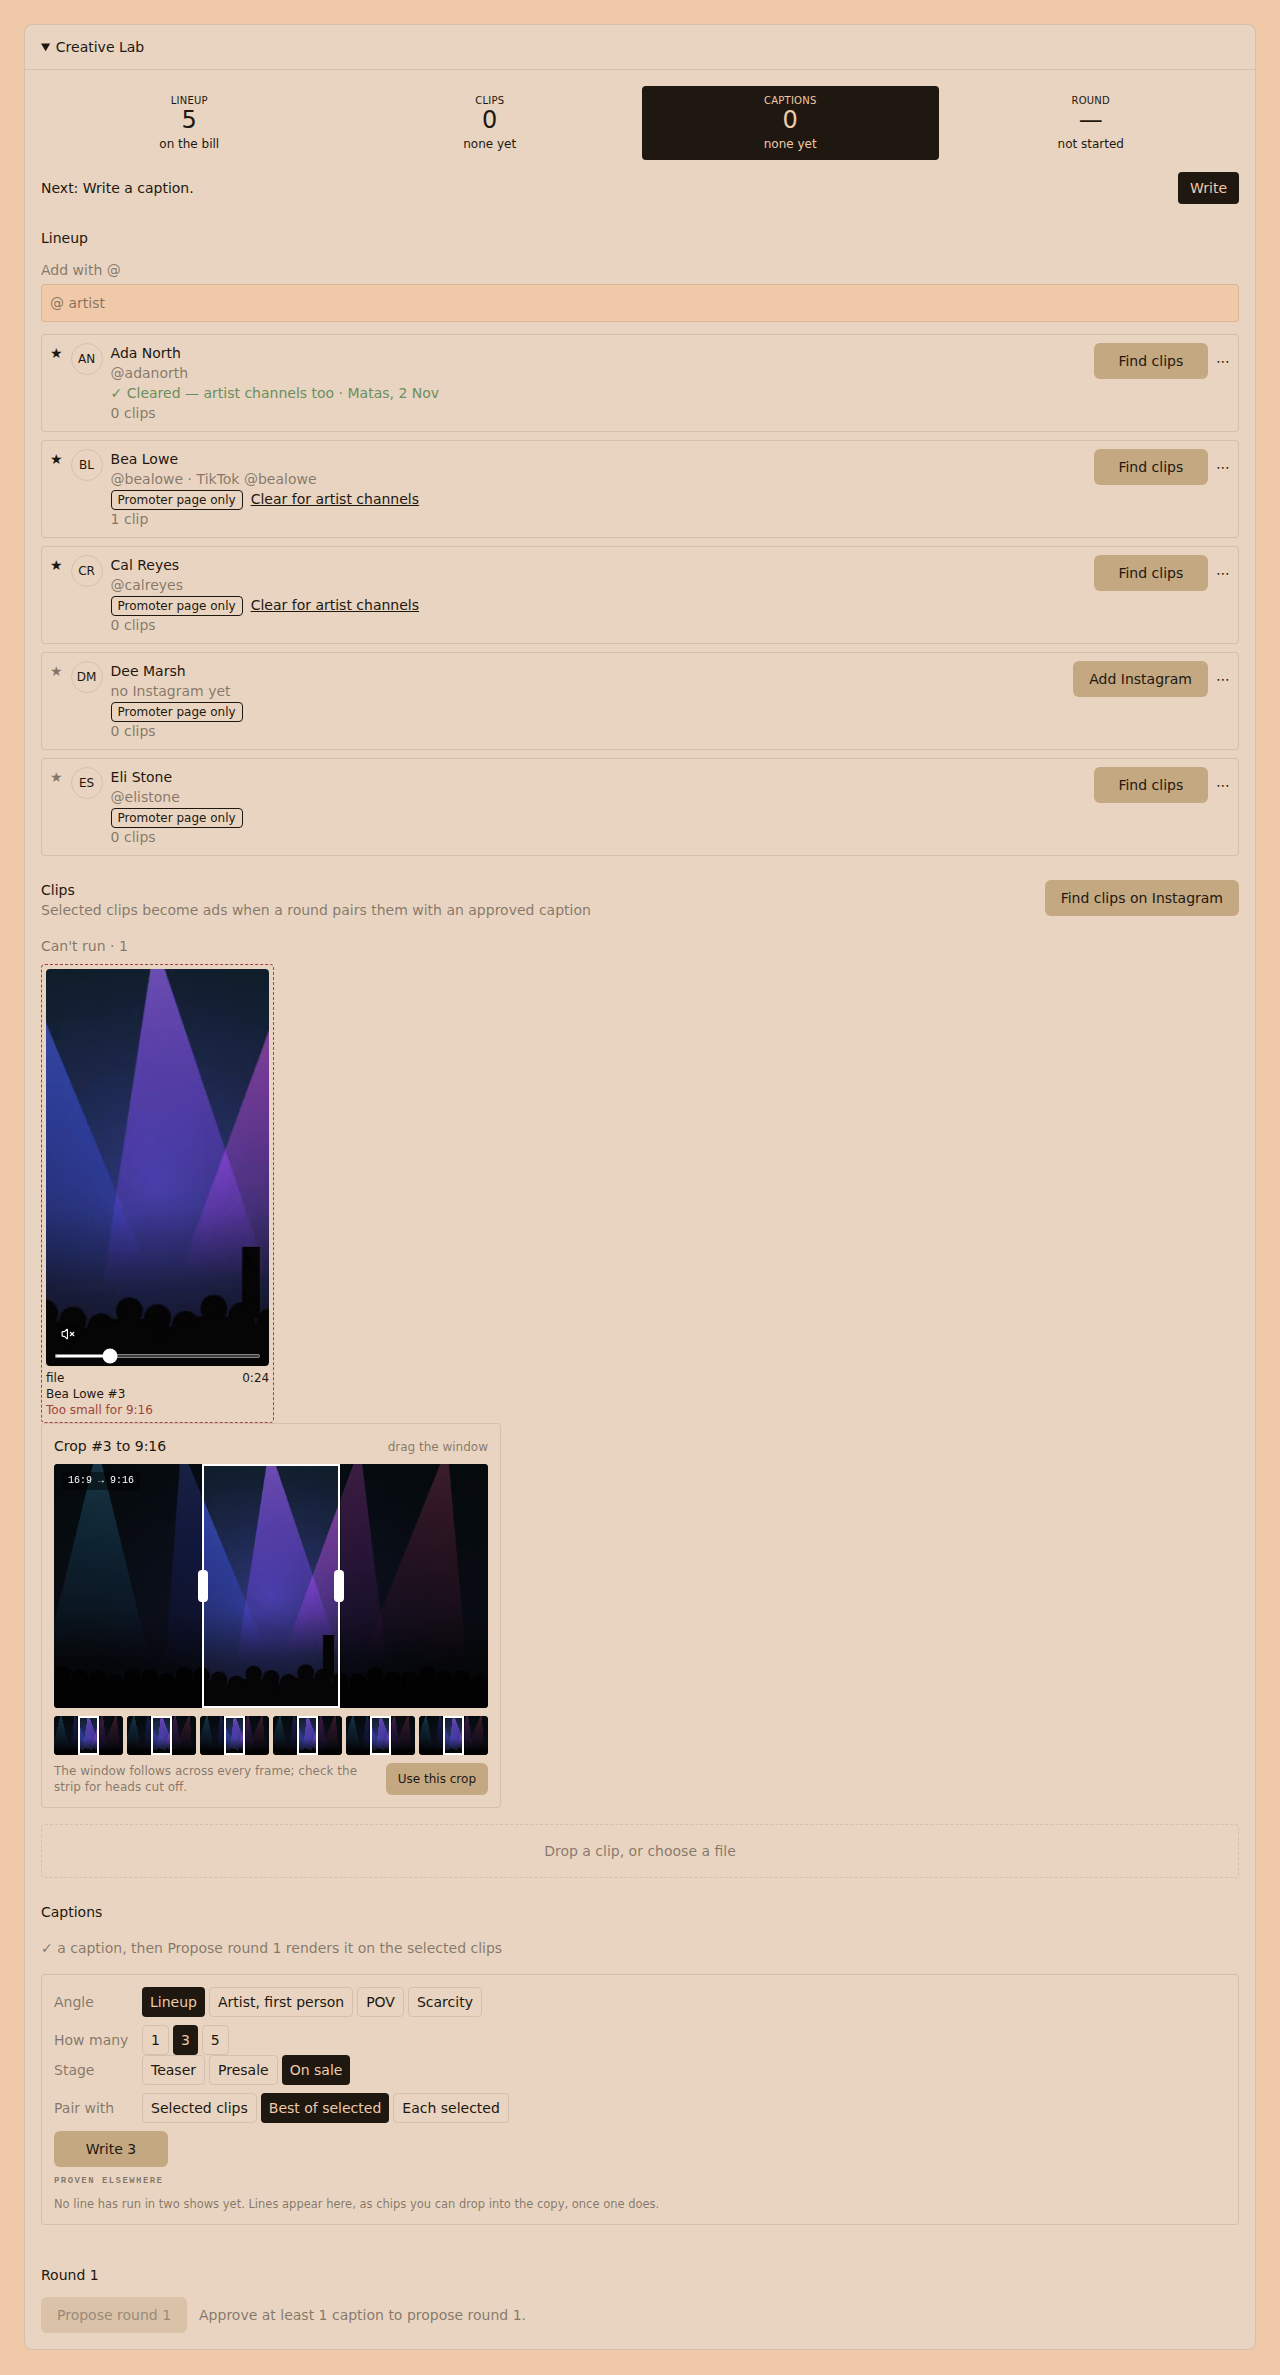
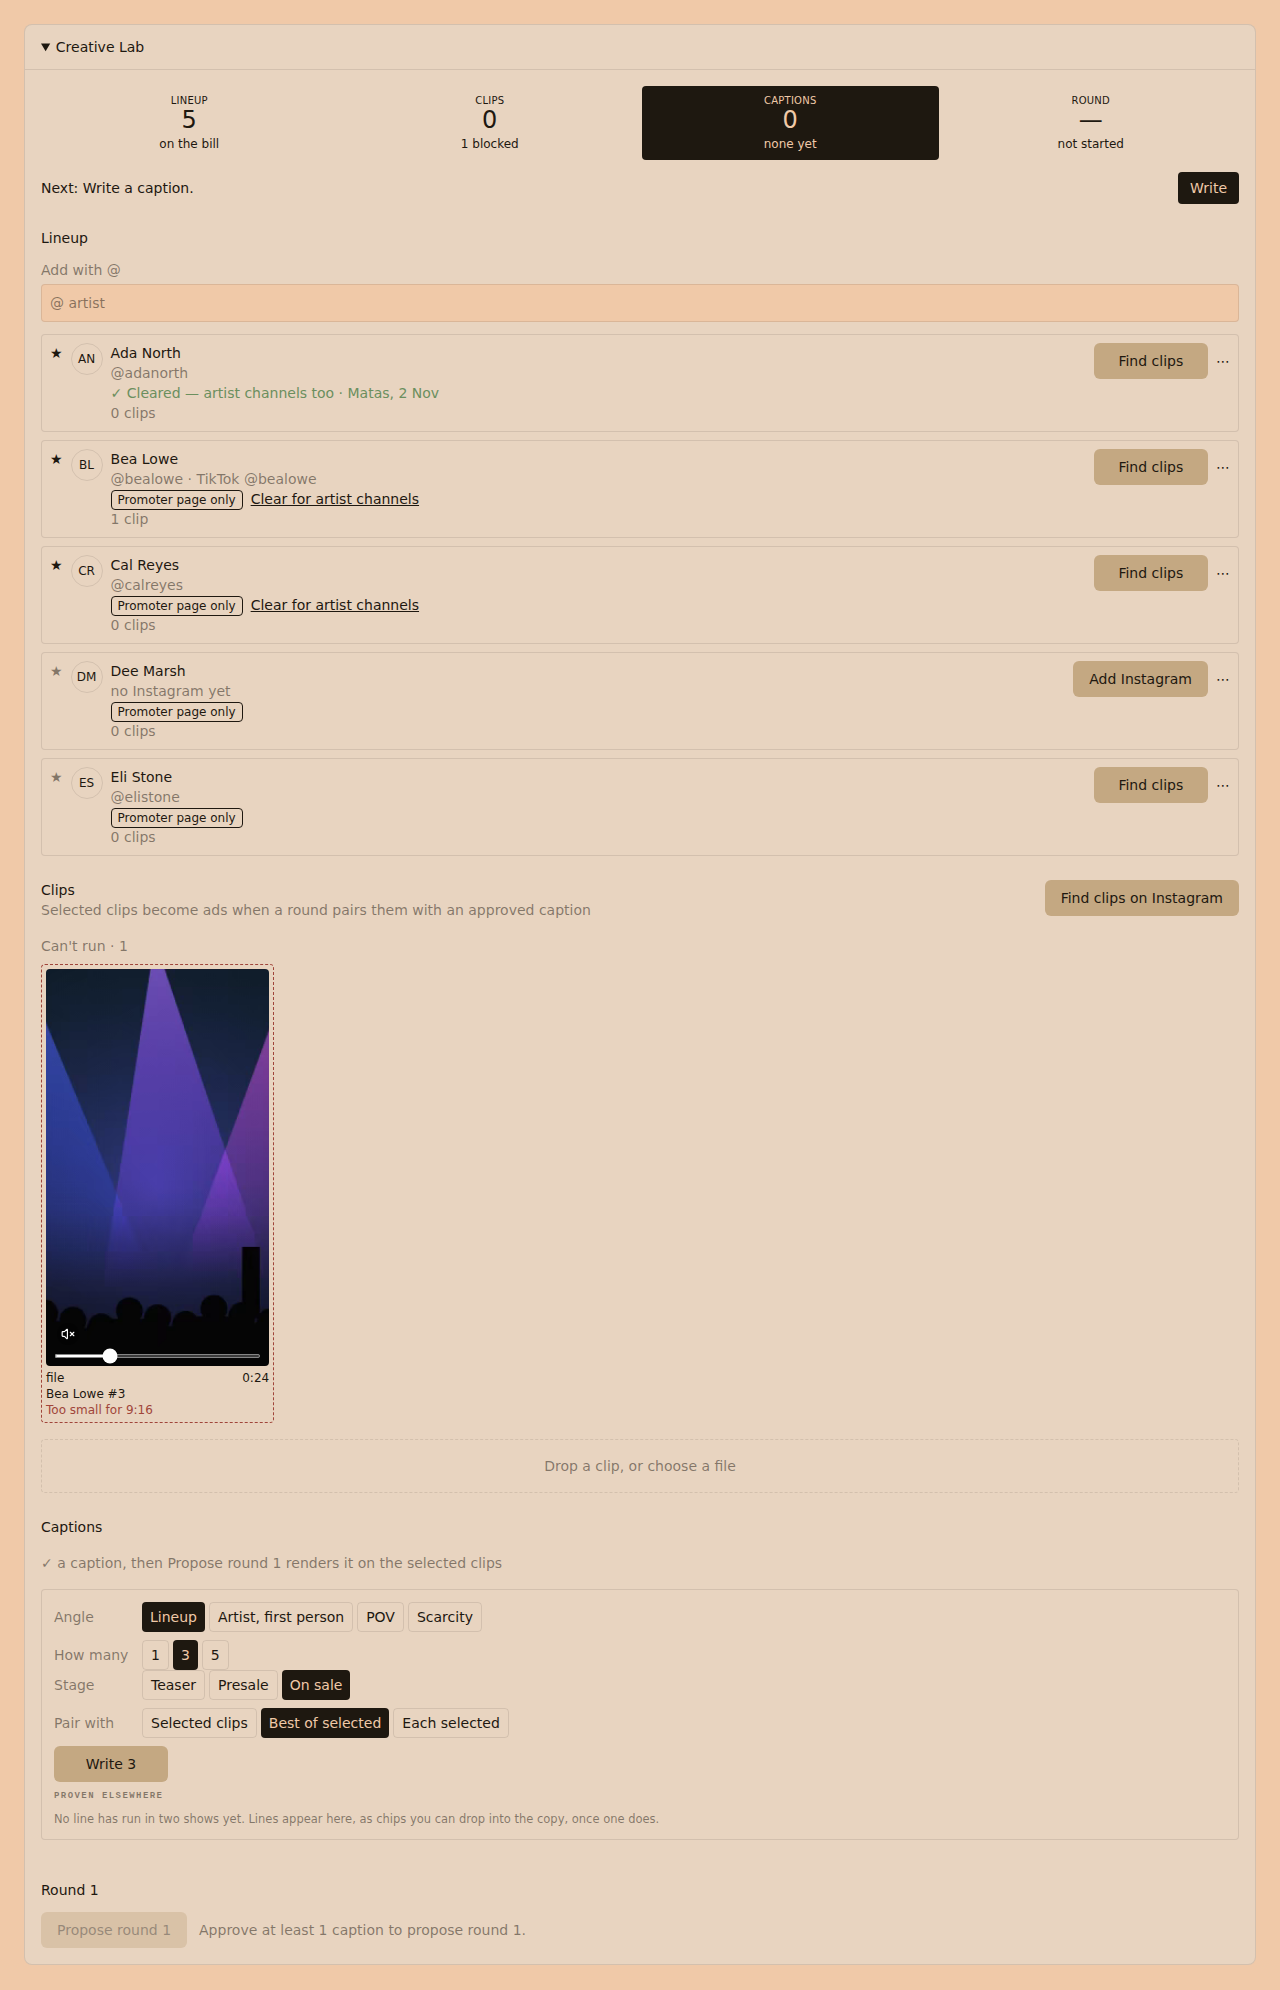
Re-baseline the three frames this round changes, and read clip size from the file.
Clips have no stored width, so launch and retry measure the source. The Ubuntu shots are CL6, CL9 and CL10 at 1280 and 393.

diff --git a/lib/creative-lab/propose.ts b/lib/creative-lab/propose.ts
@@ -716,7 +716,7 @@ export async function retryRender(db: ServiceRoleDb, args: { renderId: string; u
     throw new RenderRetryError(409, renderRefusalSentence(error) ?? "This render can't be tried again — propose the round again.");
   }
   if (render.aspect !== "9:16") throw new RenderRetryError(409, "This render is an old size — propose the round again.");
-  const clip = await db.from("creative_lab_clips").select("id, creative_asset_id, source_width, source_height").eq("id", String(render.clip_id)).maybeSingle();
+  const clip = await db.from("creative_lab_clips").select("id, creative_asset_id").eq("id", String(render.clip_id)).maybeSingle();
   if (clip.error) throw new Error(`creative_lab_clips: ${clip.error.message}`);
   if (clip.data) {
     const assetId = String(clip.data.creative_asset_id ?? "");

diff --git a/lib/creative-lab/launch.ts b/lib/creative-lab/launch.ts
@@ -140,7 +140,7 @@ function targetOf(round: Row, eventName: string, clientId: string | null): LabDr
 async function clipsTooSmallToLaunch(db: ServiceRoleDb, clipIds: readonly string[]): Promise<Set<string>> {
   const ids = [...new Set(clipIds.map((id) => id.trim()).filter(Boolean))];
   if (!ids.length) return new Set();
-  const clips = await db.from("creative_lab_clips").select("id, creative_asset_id, source_width, source_height").in("id", ids);
+  const clips = await db.from("creative_lab_clips").select("id, creative_asset_id").in("id", ids);
   if (clips.error) throw new Error(`creative_lab_clips: ${clips.error.message}`);
   const rows = (clips.data ?? []) as Row[];
   const assetIds = [...new Set(rows.map((row) => text(row, "creative_asset_id")).filter(Boolean))];
